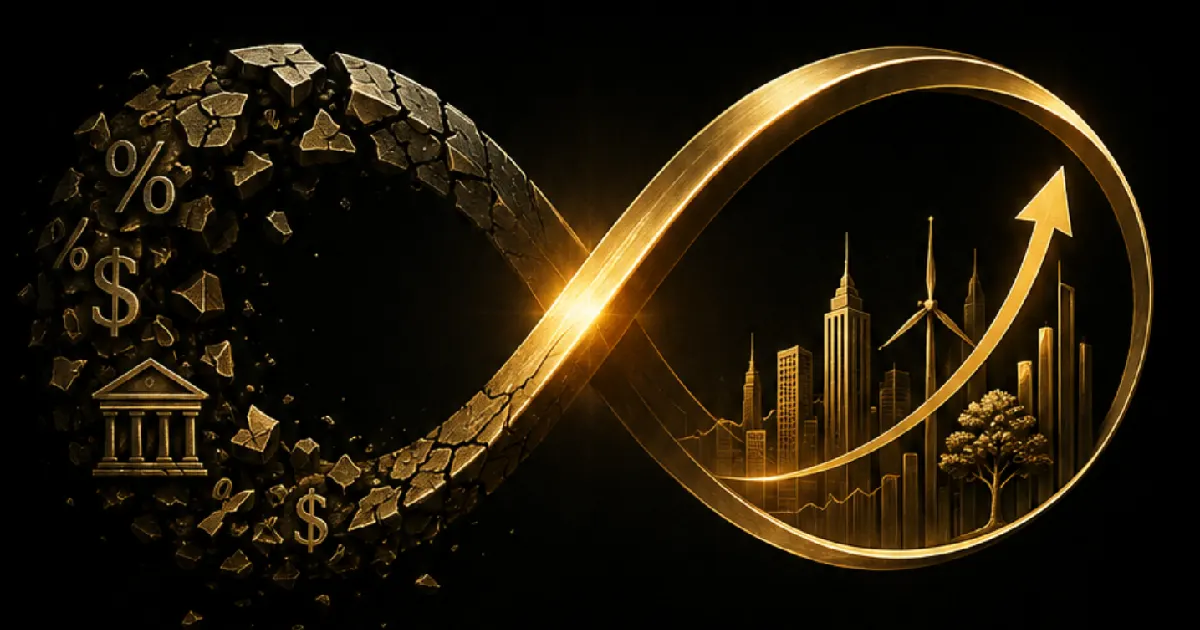
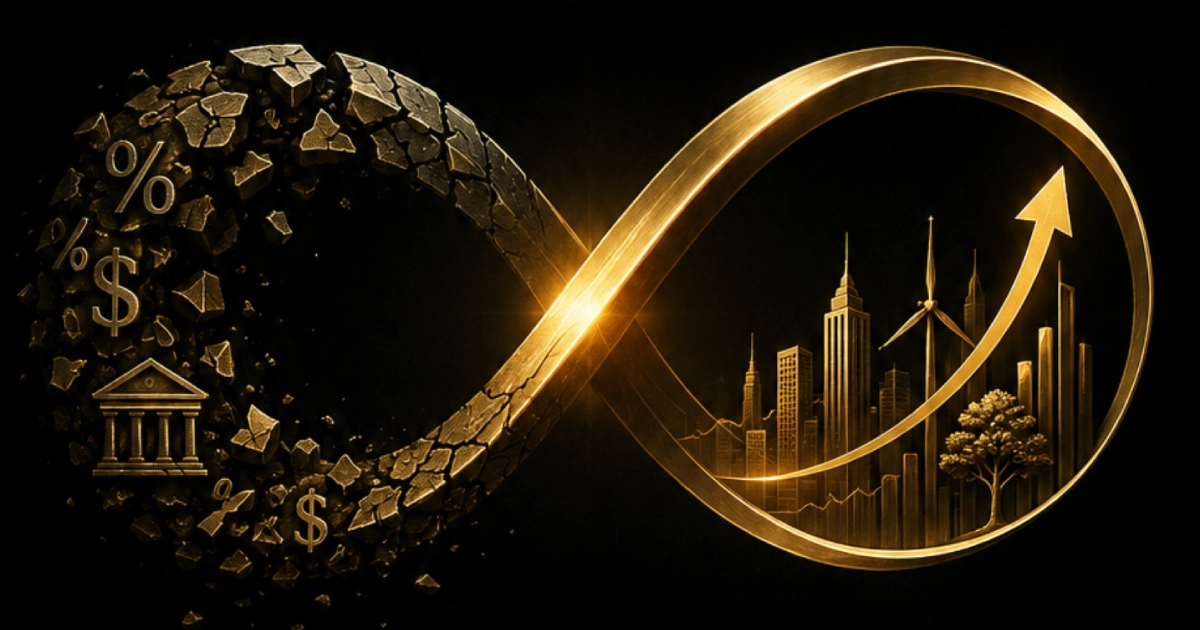
Fix 404s + change PWA to minimal-ui

diff --git a/index.html b/index.html
@@ -14,20 +14,20 @@
   <meta property="og:type" content="website">
   <meta property="og:url" content="https://traffictorch.github.io/productivity-bond-model/">
 
-  <!-- Preconnect & Preload (Non-blocking Fonts) -->
+  <!-- ===== FIXED FONT LOADING (no more 404s) ===== -->
   <link rel="preconnect" href="https://fonts.googleapis.com">
   <link rel="preconnect" href="https://fonts.gstatic.com" crossorigin>
-  <link rel="preload" as="style" href="https://fonts.googleapis.com/css2?family=Inter:opsz,wght@14..32,300..800&display=swap" onload="this.rel='stylesheet'">
-  <noscript><link rel="stylesheet" href="https://fonts.googleapis.com/css2?family=Inter:opsz,wght@14..32,300..800&display=swap"></noscript>
-  
+  <link rel="stylesheet" href="https://fonts.googleapis.com/css2?family=Inter:opsz,wght@14..32,100..900&display=swap" crossorigin="anonymous">
+
   <link rel="preconnect" href="https://cdn.plot.ly">
 
   <!-- PWA Manifest -->
   <link rel="manifest" href="/productivity-bond-model/manifest.json">
+  <!-- IMPORTANT: Change "display" in manifest.json from "standalone" to "browser" to show browser controls -->
 
   <!-- Static Favicon & App Icons  -->
   <link rel="icon" href="/productivity-bond-model/favicon.ico">
-<link rel="apple-touch-icon" href="/productivity-bond-model/icon-512.png">
+  <link rel="apple-touch-icon" href="/productivity-bond-model/icon-512.png">
   <link rel="icon" type="image/png" sizes="512x512" href="/productivity-bond-model/icon-512.png">
 
   <!-- Structured Data -->
@@ -156,7 +156,7 @@
     }
 
     /* ============================================================
-               STICKY NAV
+               STICKY NAV (hidden initially, slides in)
                ============================================================ */
     .sticky-nav {
       position: sticky;
@@ -173,6 +173,14 @@
       flex-wrap: wrap;
       font-size: 0.75rem;
       font-weight: 500;
+      /* ---- NEW: slide in effect ---- */
+      transition: transform 0.3s ease, opacity 0.3s ease;
+      transform: translateY(-100%);
+      opacity: 0;
+    }
+    .sticky-nav.visible {
+      transform: translateY(0);
+      opacity: 1;
     }
     .sticky-nav a {
       color: #c7d2fe;
@@ -1993,6 +2001,25 @@
           if (arrow) arrow.classList.toggle('open');
         }
       };
+
+      // ---------- STICKY NAV: HIDE UNTIL SCROLL PAST HERO ----------
+      const stickyNav = document.querySelector('.sticky-nav');
+      const heroSection = document.querySelector('.hero');
+      if (stickyNav && heroSection) {
+        let heroBottom = heroSection.offsetTop + heroSection.offsetHeight;
+        function checkNavVisibility() {
+          if (window.scrollY > heroBottom - 100) {
+            stickyNav.classList.add('visible');
+          } else {
+            stickyNav.classList.remove('visible');
+          }
+        }
+        window.addEventListener('scroll', checkNavVisibility);
+        window.addEventListener('resize', () => {
+          heroBottom = heroSection.offsetTop + heroSection.offsetHeight;
+        });
+        checkNavVisibility(); // initial check
+      }
 
       // ---------- SIMULATOR ENGINE ----------
       const thetaSlider = document.getElementById('theta-slider');
